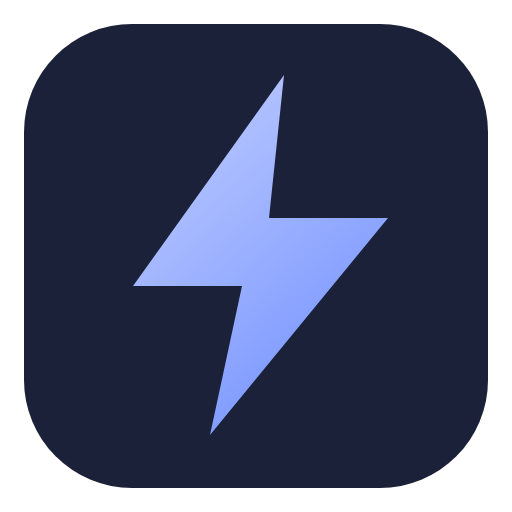
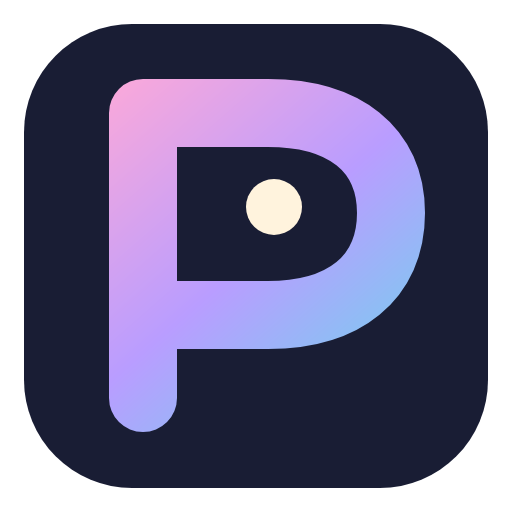
Rebrand app as Picsie

Changed region(s): [[0.1875, 0.1562, 0.8438, 0.8438]]

diff --git a/tests/native.test.ts b/tests/native.test.ts
@@ -8,10 +8,10 @@ import { createCanvas, loadImage } from "@napi-rs/canvas";
 import { Editor } from "../src/engine/editor.ts";
 import { CanvasSizeDraft } from "../src/ui/canvas-size-draft.ts";
 const require = createRequire(import.meta.url);
-const native: typeof import("../src/engine/native-api") = require("../native/electropic.node");
+const native: typeof import("../src/engine/native-api") = require("../native/picsie.node");
 const session = () => new Editor({ kind: "new", name: "Native", width: 200, height: 160 });
 async function temporary(run: (path: string) => Promise<void>) {
-  const directory = await mkdtemp(join(tmpdir(), "electropic-rust-test-"));
+  const directory = await mkdtemp(join(tmpdir(), "picsie-rust-test-"));
   try {
     await run(directory);
   } finally {
@@ -68,11 +68,12 @@ test("Rust masks, transforms, canvas resize, save/reopen and JPEG work across th
       assert.deepEqual(await pixel(png, 60, 60), [0, 0, 0, 0]);
       e.updateLayer({ rotation: 37, flipX: true });
       await e.resizeCanvas({ width: 220, height: 180, anchor: 4, fill: "#ffffff" });
-      const project = join(dir, "edited.electropic");
+      const project = join(dir, "edited.picsie");
       await e.save(project);
       assert.equal(e.history.dirty, false);
       const reopened = await Editor.open(project);
       try {
+        assert.equal((await readFile(project, "utf8")).includes('"format":"picsie"'), true);
         assert.deepEqual(reopened.document, e.document);
         await e.export(png, "png");
         const second = join(dir, "reopened.png");
@@ -119,7 +120,7 @@ test("saving an earlier revision cannot incorrectly mark a newer edit clean", as
     const raw = new native.NativeEditor(JSON.stringify({ kind: "demo" }));
     try {
       raw.dispatch(JSON.stringify({ type: "nudge", delta: { x: 5, y: 0 } }));
-      const saving = raw.save(join(dir, "earlier.electropic"));
+      const saving = raw.save(join(dir, "earlier.picsie"));
       raw.dispatch(JSON.stringify({ type: "nudge", delta: { x: 5, y: 0 } }));
       await saving;
       assert.equal(JSON.parse(raw.snapshot()).history.dirty, true);
@@ -167,6 +168,12 @@ test("legacy project fixtures open in the real addon", async () => {
   for (const name of ["legacy-editing", "legacy-native"]) {
     const e = await Editor.open(resolve(`tests/fixtures/${name}.electropic`));
     try {
+      assert.equal(
+        (await readFile(resolve(`tests/fixtures/${name}.electropic`), "utf8")).includes(
+          '"format":"electropic"',
+        ),
+        true,
+      );
       assert.ok(e.document.layers.length >= 6);
       assert.ok((await stat(await e.preview())).size > 54);
     } finally {
@@ -241,9 +248,9 @@ test("Rust validates untrusted commands and malformed projects without losing th
       assert.throws(() => e.updateLayer({ scaleX: 0 }), /transform/);
       await assert.rejects(e.resizeCanvas({ width: 8192, height: 8192, anchor: 4 }), /megapixel/);
       assert.deepEqual(e.document, before);
-      const invalid = join(dir, "invalid.electropic");
+      const invalid = join(dir, "invalid.picsie");
       await writeFile(invalid, '{"version":999}');
-      await assert.rejects(Editor.open(invalid), /Invalid Electropic/);
+      await assert.rejects(Editor.open(invalid), /Invalid Picsie/);
       assert.deepEqual(e.document, before);
     } finally {
       e.close();

diff --git a/src/ui/shell.tsx b/src/ui/shell.tsx
@@ -138,7 +138,7 @@ export function Shell(props: {
     setRevision((n) => n + 1);
     renderVersion++;
     schedule();
-    window.setTitle(`${editor.document.name}${editor.history.dirty ? " •" : ""} — Electropic`);
+    window.setTitle(`${editor.document.name}${editor.history.dirty ? " •" : ""} — Picsie`);
     if (process.platform === "darwin") window.setDocumentEdited(editor.history.dirty);
   };
 
@@ -148,13 +148,13 @@ export function Shell(props: {
     if (!destination) {
       const result = await NativeDialog.showSaveDialog(window, {
         title: "Save project",
-        defaultPath: `${doc.name}.electropic`,
-        filters: [{ name: "Electropic project", extensions: ["electropic"] }],
+        defaultPath: `${doc.name}.picsie`,
+        filters: [{ name: "Picsie project", extensions: ["picsie"] }],
       });
       if (result.canceled || !result.filePath) return false;
-      destination = result.filePath.endsWith(".electropic")
+      destination = result.filePath.endsWith(".picsie")
         ? result.filePath
-        : `${result.filePath}.electropic`;
+        : `${result.filePath}.picsie`;
     }
     await editor.save(destination);
     setPath(destination);
@@ -178,7 +178,9 @@ export function Shell(props: {
   async function open() {
     const result = await NativeDialog.showOpenDialog(window, {
       title: "Open project",
-      filters: [{ name: "Electropic project", extensions: ["electropic"] }],
+      filters: [
+        { name: "Picsie and legacy Electropic projects", extensions: ["picsie", "electropic"] },
+      ],
     });
     const file = result.filePaths[0];
     if (!result.canceled && file) props.openWindow(await Editor.open(file), file);
@@ -508,9 +510,9 @@ export function Shell(props: {
           borderColor: colors.line,
         }}
       >
-        <Icon name="bolt" size={20} color={colors.accent} />
-        <Text style={{ fontSize: 14, fontWeight: 600, letterSpacing: 0.6 }}>electropic</Text>
-        <Text style={{ color: colors.muted, fontSize: 11, marginLeft: 12 }}>COMPOSITOR / 01</Text>
+        <Icon name="image" size={20} color={colors.accent} />
+        <Text style={{ fontSize: 14, fontWeight: 600, letterSpacing: 0.6 }}>picsie</Text>
+        <Text style={{ color: colors.muted, fontSize: 11, marginLeft: 12 }}>IMAGE EDITOR</Text>
         <View style={{ flexGrow: 1 }} />
         <Action label="New" onClick={() => setNewOpen(true)} disabled={busy()} />
         <Action label="Open" onClick={() => void run(open)} disabled={busy()} />

diff --git a/scripts/generate-icon.ts b/scripts/generate-icon.ts
@@ -3,22 +3,29 @@ import { mkdir, writeFile } from "node:fs/promises";
 
 const canvas = createCanvas(512, 512);
 const ctx = canvas.getContext("2d");
-ctx.fillStyle = "#1b2138";
+ctx.fillStyle = "#191d34";
 ctx.beginPath();
 ctx.roundRect(24, 24, 464, 464, 108);
 ctx.fill();
-const gradient = ctx.createLinearGradient(80, 80, 410, 450);
-gradient.addColorStop(0, "#cbd5ff");
-gradient.addColorStop(1, "#6587ff");
-ctx.fillStyle = gradient;
+const gradient = ctx.createLinearGradient(120, 90, 400, 410);
+gradient.addColorStop(0, "#f7a8dc");
+gradient.addColorStop(0.5, "#b99dff");
+gradient.addColorStop(1, "#70d4ed");
+ctx.strokeStyle = gradient;
+ctx.lineWidth = 68;
+ctx.lineCap = "round";
+ctx.lineJoin = "round";
 ctx.beginPath();
-ctx.moveTo(284, 75);
-ctx.lineTo(133, 286);
-ctx.lineTo(242, 286);
-ctx.lineTo(210, 435);
-ctx.lineTo(388, 218);
-ctx.lineTo(269, 218);
-ctx.closePath();
+ctx.moveTo(143, 398);
+ctx.lineTo(143, 113);
+ctx.lineTo(268, 113);
+ctx.bezierCurveTo(344, 113, 391, 149, 391, 213);
+ctx.bezierCurveTo(391, 278, 344, 315, 268, 315);
+ctx.lineTo(143, 315);
+ctx.stroke();
+ctx.fillStyle = "#fff3dd";
+ctx.beginPath();
+ctx.arc(274, 207, 28, 0, Math.PI * 2);
 ctx.fill();
 await mkdir("resources", { recursive: true });
 await writeFile("resources/icon.png", await canvas.encode("png"));

diff --git a/src/ui/icons.tsx b/src/ui/icons.tsx
@@ -29,7 +29,6 @@ const paths = {
   duplicate: '<rect x="8" y="8" width="13" height="13" rx="2"/><path d="M16 8V3H3v13h5"/>',
   chevron: '<path d="m6 9 6 6 6-6"/>',
   export: '<path d="M14 3h7v7M21 3l-11 11M10 4H4v16h16v-6"/>',
-  bolt: '<path d="m13 2-9 12h7l-1 8 10-13h-8l1-7Z"/>',
   grip: '<path d="M8 5h1M15 5h1M8 12h1M15 12h1M8 19h1M15 19h1"/>',
   mask: '<rect x="3" y="3" width="18" height="18" rx="2"/><path d="M12 3v18"/><path d="M12 3h9v18h-9Z" fill="white"/>',
 } as const;

diff --git a/src/engine/types.ts b/src/engine/types.ts
@@ -1,4 +1,4 @@
-// Generated by cargo run -p electropic-core --bin export_types. Do not edit.
+// Generated by cargo run -p picsie-core --bin export_types. Do not edit.
 export type Point = { x: number; y: number };
 export type Shape = "rectangle" | "ellipse";
 export type FontFamily = "sans-serif" | "serif" | "monospace";

diff --git a/quickgui.config.ts b/quickgui.config.ts
@@ -2,8 +2,8 @@ import { defineConfig } from "@quickgui/cli";
 
 export default defineConfig({
   language: "typescript",
-  name: "Electropic",
-  identifier: "dev.electropic.compositor",
+  name: "Picsie",
+  identifier: "dev.peculiarnewbie.picsie",
   entry: "app.tsx",
   resources: ["THIRD_PARTY_NOTICES.md"],
 });

diff --git a/app.tsx b/app.tsx
@@ -6,7 +6,7 @@ import { canQuit } from "./src/ui/lifecycle.ts";
 
 function openWindow(editor: Editor = new Editor(), path?: string) {
   new Window({
-    title: "Electropic — Compositor",
+    title: "Picsie",
     width: 1280,
     height: 860,
     minimumWidth: 960,

diff --git a/crates/picsie-core/tests/behavior.rs b/crates/picsie-core/tests/behavior.rs
@@ -1,6 +1,6 @@
 //! Behavior fixtures moved from the TypeScript suite. Compositor fixtures are marked below.
 //! Upstream MIT © 2026 Wonder Assembly LLC; pinned source mapping in docs/compositor-port.md.
-use electropic_core::{
+use picsie_core::{
     canvas_size::*, editor::*, files::*, geometry::*, history::*, model::*, render::*,
 };
 use serde_json::json;
@@ -622,7 +622,7 @@ fn mask_duplicate_edits_are_independent_and_roundtrip() {
     assert_eq!(e.history.document.layers[0].mask, original.mask);
     assert_ne!(e.selected().unwrap().mask, original.mask);
     let dir = tempfile::tempdir().unwrap();
-    let path = dir.path().join("mask.electropic");
+    let path = dir.path().join("mask.picsie");
     save_project(&path, &e.history.document).unwrap();
     let reopened = open_project(&path).unwrap();
     assert_eq!(reopened, e.history.document);
@@ -842,7 +842,7 @@ fn canceled_gestures_preserve_redo_and_group_range_anchor() {
 fn file_import_is_self_contained_and_failed_writes_preserve_original() {
     let dir = tempfile::tempdir().unwrap();
     let image = dir.path().join("source.png");
-    let project = dir.path().join("project.electropic");
+    let project = dir.path().join("project.picsie");
     std::fs::write(
         &image,
         Renderer::default()
@@ -855,6 +855,7 @@ fn file_import_is_self_contained_and_failed_writes_preserve_original() {
     save_project(&project, &d).unwrap();
     std::fs::remove_file(&image).unwrap();
     let opened = open_project(&project).unwrap();
+    assert_eq!(opened.format, "picsie");
     assert_eq!(pix(&opened, 10., 10.), [255, 0, 0, 255]);
     let original = std::fs::read(&project).unwrap();
     let mut invalid = d;
@@ -922,6 +923,7 @@ fn real_legacy_projects_open_and_roundtrip_with_no_pixel_payload_in_metadata() {
         let path = Path::new(env!("CARGO_MANIFEST_DIR"))
             .join(format!("../../tests/fixtures/{name}.electropic"));
         let d = open_project(&path).unwrap();
+        assert_eq!(d.format, "electropic");
         let mut r = Renderer::default();
         let bytes = r.export(&d, false).unwrap();
         assert!(bytes.len() > 1000);

diff --git a/crates/picsie-core/src/model.rs b/crates/picsie-core/src/model.rs
@@ -1,4 +1,4 @@
-//! Electropic v1 compatibility model. Compositor placement semantics: see docs/compositor-port.md.
+//! Picsie model with Electropic v1 compatibility. Compositor placement semantics: see docs/compositor-port.md.
 use anyhow::{Result, ensure};
 use serde::{Deserialize, Serialize};
 use std::{collections::HashSet, sync::Arc};
@@ -303,7 +303,7 @@ impl Layer {
 impl Document {
     pub fn new(name: &str, width: u32, height: u32) -> Result<Self> {
         let doc = Self {
-            format: "electropic".into(),
+            format: "picsie".into(),
             version: 1,
             name: name.into(),
             width,
@@ -315,8 +315,8 @@ impl Document {
     }
     pub fn validate(&self) -> Result<()> {
         ensure!(
-            self.format == "electropic" && self.version == 1,
-            "Unsupported Electropic project version"
+            (self.format == "picsie" || self.format == "electropic") && self.version == 1,
+            "Unsupported Picsie project version"
         );
         dimensions(self.width, self.height)?;
         ensure!(
@@ -344,7 +344,7 @@ impl Document {
     }
 }
 pub fn demo_document() -> Document {
-    let mut doc = Document::new("Electric studies", 1200, 800).unwrap();
+    let mut doc = Document::new("Color studies", 1200, 800).unwrap();
     let mut add = |name: &str, w, h, x, y, content| {
         let mut l = Layer::new(name, w, h, content);
         l.x = x;
@@ -391,7 +391,7 @@ pub fn demo_document() -> Document {
         80.,
         77.,
         Content::Text {
-            text: "E L E C T R O P I C   /   0 0 1".into(),
+            text: "P I C S I E   /   0 0 1".into(),
             font_size: 19.,
             font_family: FontFamily::Monospace,
             color: "#a5b4d1".into(),
@@ -404,7 +404,7 @@ pub fn demo_document() -> Document {
         76.,
         278.,
         Content::Text {
-            text: "Make something\nelectric.".into(),
+            text: "Make something\ncolorful.".into(),
             font_size: 94.,
             font_family: FontFamily::SansSerif,
             color: "#fff5e8".into(),

diff --git a/crates/picsie-native/src/lib.rs b/crates/picsie-native/src/lib.rs
@@ -1,13 +1,13 @@
 //! Node-API transport only. Engine state and all long-running raster/file work stay in Rust.
-use electropic_core::{
+use napi::{Env, Task, bindgen_prelude::*};
+use napi_derive::napi;
+use picsie_core::{
     editor::{Command, Editor, InitialDocument, PaintTarget, Tool},
     files::{self, Frames},
     geometry::{self, Viewport},
     model::{Document, Layer, Point, demo_document},
     render::Renderer,
 };
-use napi::{Env, Task, bindgen_prelude::*};
-use napi_derive::napi;
 use std::{
     path::Path,
     sync::{
@@ -223,7 +223,7 @@ impl Task for PreviewTask {
                 self.mask_id.as_deref(),
             )
             .map_err(error)?;
-        let bytes = electropic_core::render::frame_bytes(&mut surface).map_err(error)?;
+        let bytes = picsie_core::render::frame_bytes(&mut surface).map_err(error)?;
         self.shared.check()?;
         lock(&self.shared.frames)?.publish(&bytes).map_err(error)
     }
@@ -330,14 +330,14 @@ pub struct CanvasTask {
     shared: Arc<Shared>,
     document: Document,
     revision: String,
-    options: electropic_core::canvas_size::CanvasSizeOptions,
+    options: picsie_core::canvas_size::CanvasSizeOptions,
 }
 impl Task for CanvasTask {
     type Output = Document;
     type JsValue = String;
     fn compute(&mut self) -> Result<Document> {
         self.shared.check()?;
-        electropic_core::canvas_size::resize_canvas(&self.document, &self.options).map_err(error)
+        picsie_core::canvas_size::resize_canvas(&self.document, &self.options).map_err(error)
     }
     fn resolve(&mut self, _: Env, document: Document) -> Result<String> {
         self.shared.check()?;

diff --git a/crates/picsie-core/src/files.rs b/crates/picsie-core/src/files.rs
@@ -22,7 +22,7 @@ pub fn bounded_read(path: &Path) -> Result<Vec<u8>> {
 }
 pub fn parse_project(text: &str) -> Result<Document> {
     ensure!(text.len() as u64 <= MAX_FILE_BYTES, "Project exceeds 96 MB");
-    let doc: Document = serde_json::from_str(text).context("Invalid Electropic project")?;
+    let doc: Document = serde_json::from_str(text).context("Invalid Picsie project")?;
     doc.validate()?;
     for l in &doc.layers {
         if let Content::Image { data } = l.content.as_ref() {
@@ -89,7 +89,7 @@ pub struct Frames {
 impl Frames {
     pub fn new() -> Result<Self> {
         let mut builder = tempfile::Builder::new();
-        builder.prefix("electropic-frames-");
+        builder.prefix("picsie-frames-");
         let directory = if cfg!(target_os = "linux") && Path::new("/dev/shm").is_dir() {
             builder
                 .tempdir_in("/dev/shm")

diff --git a/crates/picsie-core/src/bin/export_types.rs b/crates/picsie-core/src/bin/export_types.rs
@@ -1,5 +1,5 @@
 //! TypeScript's contract is generated from Rust. No parallel schema to maintain.
-use electropic_core::{
+use picsie_core::{
     canvas_size::CanvasSizeOptions,
     editor::*,
     geometry::Viewport,
@@ -23,9 +23,8 @@ struct EditorState {
     viewport: Viewport,
 }
 fn main() {
-    let mut out = String::from(
-        "// Generated by cargo run -p electropic-core --bin export_types. Do not edit.\n",
-    );
+    let mut out =
+        String::from("// Generated by cargo run -p picsie-core --bin export_types. Do not edit.\n");
     macro_rules! export{($($t:ty),*)=>{$(out.push_str("export ");out.push_str(&<$t>::decl(&ts_rs::Config::default()));out.push('\n');)*};}
     export!(
         Point,
